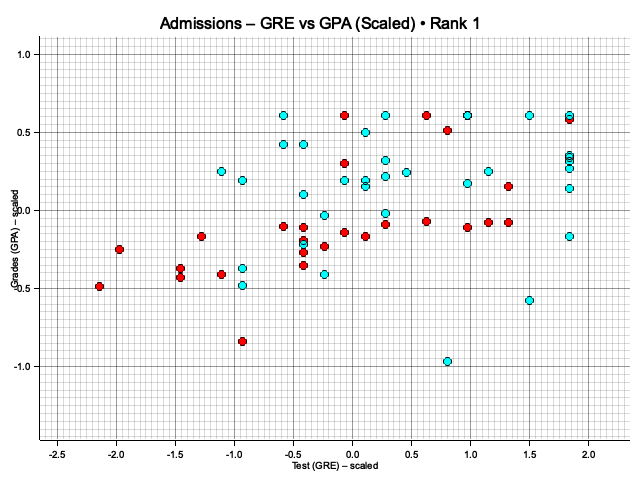
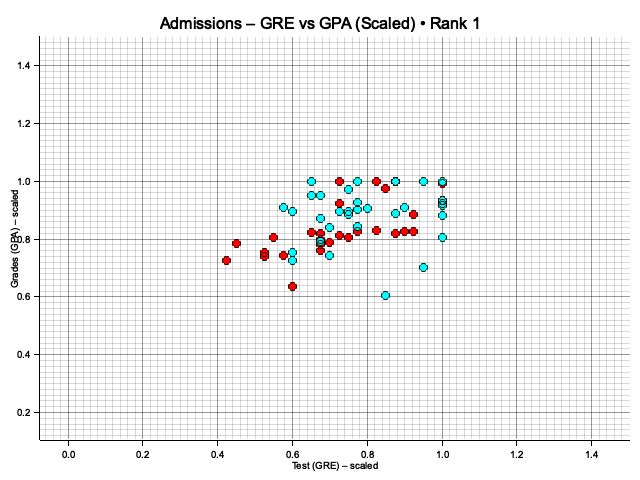
Implement activation and loss traits for neural network: add Sigmoid and BCE, MSE loss functions

diff --git a/student-admissions/src/model.rs b/student-admissions/src/model.rs
@@ -1,0 +1,67 @@
+// ────────────────── 1.  Activation trait ──────────────────
+pub trait Activation {
+    /// σ(x)
+    fn forward(x: f64) -> f64;
+    /// σ′(x)
+    fn derivative(x: f64) -> f64;
+}
+
+/// Sigmoid activation σ(x) = 1 / (1 + e^(−x))
+pub struct Sigmoid;
+
+impl Activation for Sigmoid {
+    #[inline]
+    fn forward(x: f64) -> f64 {
+        1.0 / (1.0 + (-x).exp())
+    }
+
+    #[inline]
+    fn derivative(x: f64) -> f64 {
+        let s = Self::forward(x);
+        s * (1.0 - s)
+    }
+}
+
+// ────────────────── 2.  Loss trait ──────────────────
+pub trait Loss<A: Activation> {
+    /// ℒ(y, ŷ)
+    fn loss(y: f64, output: f64) -> f64;
+
+    /// δ (error term) for back‑prop at the output neuron.
+    ///
+    /// `pre_act` is z, the value **before** the activation.
+    fn delta(y: f64, output: f64, pre_act: f64) -> f64;
+}
+
+/// Binary‑cross‑entropy (log loss)
+pub struct BCE;
+
+impl Loss<Sigmoid> for BCE {
+    #[inline]
+    fn loss(y: f64, output: f64) -> f64 {
+        // clamp for ln‑safety if desired
+        -(y * output.ln() + (1.0 - y) * (1.0 - output).ln())
+    }
+
+    #[inline]
+    fn delta(y: f64, output: f64, _z: f64) -> f64 {
+        // For sigmoid+BCE, σ′ cancels ⇒ δ = ŷ − y
+        output - y
+    }
+}
+
+/// Mean‑squared error ½(ŷ − y)²
+pub struct MSE;
+
+impl Loss<Sigmoid> for MSE {
+    #[inline]
+    fn loss(y: f64, output: f64) -> f64 {
+        0.5 * (output - y).powi(2)
+    }
+
+    #[inline]
+    fn delta(y: f64, output: f64, z: f64) -> f64 {
+        // δ = (ŷ − y) * σ′(z)
+        (output - y) * Sigmoid::derivative(z)
+    }
+}

diff --git a/student-admissions/src/data.rs b/student-admissions/src/data.rs
@@ -99,7 +99,7 @@ pub trait AdmissionsOneHotOps {
     fn scale_mut(&mut self);
     fn split_train_test(self, test: f64, rng: &mut ThreadRng)
                         -> (AdmissionsOneHot, AdmissionsOneHot);
-    
+
     /// Splitting the data into features and targets (labels)
     // Split the one‑hot data into
     ///   * `x` – features  `[gre, gpa, r1, r2, r3, r4]`
@@ -118,25 +118,15 @@ pub struct XY {
 
 impl AdmissionsOneHotOps for AdmissionsOneHot {
     fn scale_mut(&mut self) {
-        if self.rows.is_empty() { return; }
-
-        let len     = self.rows.len() as f64;
-        let (sum_gre, sum_gpa) = self.rows.iter()
-            .fold((0.0, 0.0), |(sgre, sgpa), r| (sgre + r.gre, sgpa + r.gpa));
-        let mean_gre = sum_gre / len;
-        let mean_gpa = sum_gpa / len;
-
-        let (var_gre, var_gpa) = self.rows.iter()
-            .fold((0.0, 0.0), |(vg, vp), r| {
-                (vg + (r.gre - mean_gre).powi(2),
-                 vp + (r.gpa - mean_gpa).powi(2))
-            });
-        let sd_gre = (var_gre / len).sqrt().max(1.0);
-        let sd_gpa = (var_gpa / len).sqrt().max(1.0);
-
+        // Simple 0‑1 scaling:
+        //   • GRE  ∈ [200,800]  -> divide by 800  (≈ 0‑1)
+        //   • GPA  ∈ [1,4]      -> divide by 4    (≈ 0‑1)
+        //
+        // This matches many tutorials that normalise features to [0,1] for
+        // neural networks. :contentReference[oaicite:1]{index=1}
         for r in &mut self.rows {
-            r.gre = (r.gre - mean_gre) / sd_gre;
-            r.gpa = (r.gpa - mean_gpa) / sd_gpa;
+            r.gre /= 800.0;
+            r.gpa /= 4.0;
         }
     }
 
